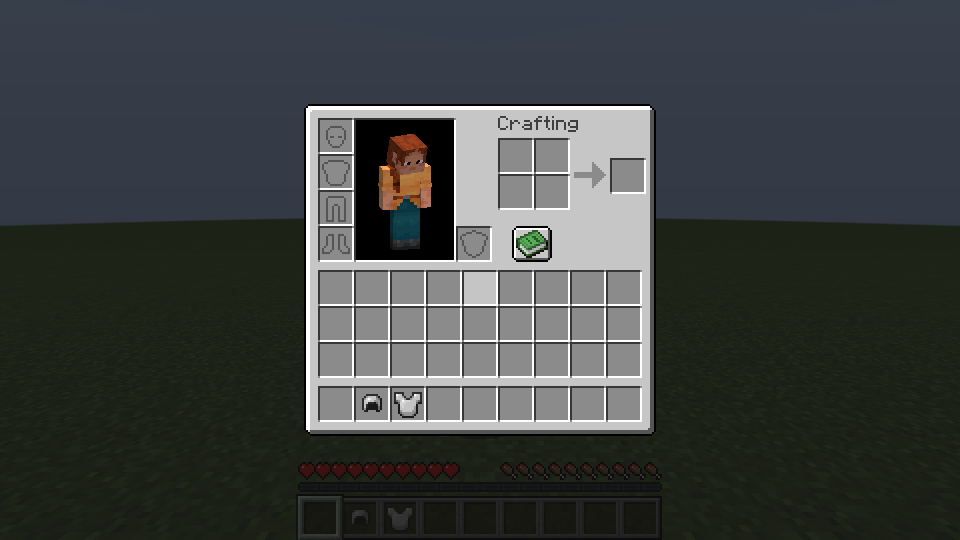
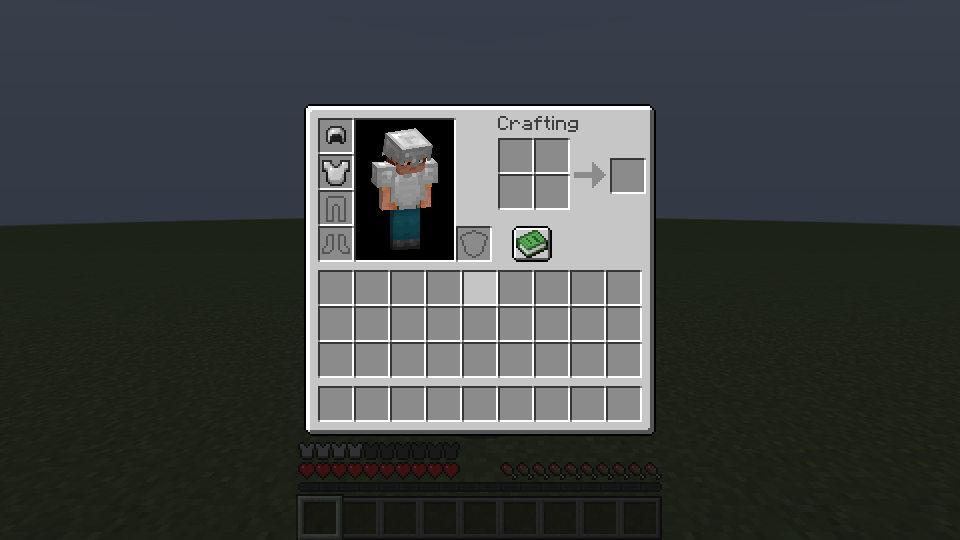
strumenti: la sequenza nel client controlla in che slot sono finiti i pezzi, il README del client dice i controlli di adesso e che cosa non si prova; scatto di riferimento dell'armatura ritrovata nei suoi slot
Claude-Session: https://claude.ai/code/session_018Fcbc2CFSwuiCoDaNxQwgt

diff --git a/tools/client/README.md b/tools/client/README.md
@@ -41,7 +41,7 @@ Nella cartella lascia:
 - `<nome>.png` per ogni passo `@scatto <nome>` (e `@tieni` con uno scatto);
 - `gradle-server.log`, `gradle-client.log`: uscita di Gradle e del gioco; `server.log`, `client.log`: i `latest.log`;
 - `rcon.log`: comandi e risposte; `xvfb.log`: uscita di Xvfb;
-- `log-check.txt`: avvisi ed errori del mod o dei mixin nei due log (righe WARN/ERROR che nominano il mod o i mixin, tracce che passano da `com.toxineren`, errori di applicazione dei mixin); vuoto se non ce ne sono. Non ferma lo script: lo segnala.
+- `log-check.txt`: avvisi ed errori del mod nei due log che non sono nell'elenco di quelli voluti, `tools/log_allowlist.txt` (righe WARN/ERROR che nominano il mod o la sua entità, anche quelle di vanilla come `UUID of added entity already exists: ExoframeEntity[...]`; tracce che passano da `com.toxineren`; errori di applicazione dei mixin), scritti da `tools/check_log.py`; vuoto se non ce ne sono. Se non è vuoto lo script, dopo aver salvato scatti e log, esce con 1.
 
 All'inizio lo script cancella dalla cartella solo questi file, per nome (compresi gli scatti dei passi); il resto della cartella non lo tocca. `server.log` e `client.log` li copia solo se in questa esecuzione server e client sono partiti.
 
@@ -69,7 +69,7 @@ Tutti i passi si controllano prima di avviare qualunque cosa: un passo sconosciu
 
 **`m3a_shots.sh`** fa l'insieme standard della parte 3a, una esecuzione e una sottocartella per scatto: `01-nudo`, `02-rottame-s0` … `05-rottame-s3`, `06-colori` (`3A6EA5` e `D9D9D9`), `07-mani` (piccone di ferro nella mano principale, scudo nell'altra), `08-sdraiato` (telaio nudo, posa strisciante forzata da un blocco di vetro sopra la testa; qui `front.png` non serve, perché la telecamera davanti finisce contro la testa: contano `back.png` e `quarter.png`). Negli scatti 01 e 02 c'è una colonna di tre blocchi di lana bianca a tre blocchi dal giocatore, verso ovest, come metro per l'altezza. Alla fine monta `stati-fronte.png` (le quattro viste frontali degli stati affiancate) e stampa un riepilogo. Una esecuzione per scatto invece di una lunga: ogni scatto parte dallo stesso stato e un errore resta nel suo scatto; costa un minuto in più a scatto.
 
-**`m3b_shots.sh`** fa la sequenza della parte 3b in una sola esecuzione, con clic e tasti veri: il giocatore in sopravvivenza, con elmo e corazza di ferro, piazza il telaio con l'oggetto (clic destro sull'erba), monta elmo, braccio destro (cliccando il lato destro del telaio) e cella carica con l'oggetto in mano, entra a mano vuota, esce tenendo `V`, rientra, si sposta nella tuta, muore (`kill`) e, rinato, rientra nel telaio lasciato dalla morte e ne riesce. Dopo ogni passo uno scatto (`01-piazzato` … `15-armatura-ritrovata`, elencati in testa allo script); fra i passi comandi `execute if`/`unless` controllano dove sta l'entità telaio e quante ce ne sono, i segnaposto negli slot armatura solo mentre il giocatore è dentro, l'armatura restituita, niente a terra dopo la morte; `data get entity` sul telaio scrive il suo stato in `rcon.log`. Un controllo che non torna ferma l'esecuzione con uscita 1. Alla fine i tre scatti di `client_shot.sh`, con il giocatore otto blocchi davanti al telaio.
+**`m3b_shots.sh`** fa la sequenza della parte 3b in una sola esecuzione, con clic e tasti veri: il giocatore in sopravvivenza, con elmo e corazza di ferro, piazza il telaio con l'oggetto (clic destro sull'erba), monta elmo, braccio destro (cliccando il lato destro del telaio) e cella carica con l'oggetto in mano, entra a mano vuota, esce tenendo `V`, rientra, si sposta nella tuta, muore (`kill`) e, rinato, rientra nel telaio lasciato dalla morte e ne riesce. Dopo ogni passo uno scatto (`01-piazzato` … `15-armatura-ritrovata`, elencati in testa allo script); fra i passi comandi `execute if`/`unless` controllano dove sta l'entità telaio e quante ce ne sono, i segnaposto negli slot armatura solo mentre il giocatore è dentro, i pezzi montati a ogni ingresso (nel riassunto visivo del segnaposto del torso: elmo e braccio destro sì, braccio sinistro no), l'armatura di ferro nei suoi slot a ogni uscita, il passo fuori dal telaio a ogni uscita (il giocatore un blocco davanti al centro del telaio), niente a terra dopo la morte, e al rientro nel telaio lasciato dalla morte l'armatura che resta nel telaio (non nell'inventario) e torna nei suoi slot all'uscita; `data get entity` sul telaio scrive il suo stato in `rcon.log`. Un controllo che non torna ferma l'esecuzione con uscita 1. Alla fine i tre scatti di `client_shot.sh`, con il giocatore otto blocchi davanti al telaio.
 
 Variabili d'ambiente:
 
@@ -85,7 +85,7 @@ Lo script lavora sul checkout in cui si trova (compila il codice com'è, anche l
 
 ## Errori
 
-Uscita 0: scatti salvati. Uscita 1: qualcosa si è fermato durante l'esecuzione, con una riga `ERRORE:` su stderr che dice cosa (build fallita, server o client che non partono, giocatore che non entra o viene espulso, comando rifiutato o senza risposta, passo del client non riuscito, scatto quasi tutto di un colore). Uscita 2: uso o ambiente sbagliati (variante sconosciuta, passo sconosciuto o scritto male, tasto sconosciuto, programmi mancanti, EULA non accettata, porta occupata, un'altra esecuzione sulla stessa variante, Xvfb che non parte, OpenGL core 3.2 assente); `m3a_shots.sh` allora non prova gli scatti successivi. Uscita 130: interrotto con Ctrl-C; 143: terminato con TERM. In ogni caso lo script rilascia per primo il tasto che un passo `@tieni` stava tenendo premuto (se l'errore o l'interruzione arriva durante la pressione), ferma il server con `stop`, manda TERM ai suoi due processi Gradle (che annullano la build nel demone, così un server o un client non ancora partiti non partono più) e alle JVM del gioco di quell'esecuzione, dopo 30 s le uccide, chiude Xvfb e copia i log. La chiusura dura al massimo circa 35 s, e un secondo Ctrl-C non la interrompe.
+Uscita 0: scatti salvati e `log-check.txt` vuoto. Uscita 1: qualcosa si è fermato durante l'esecuzione, con una riga `ERRORE:` su stderr che dice cosa (build fallita, server o client che non partono, giocatore che non entra o viene espulso, comando rifiutato o senza risposta, passo del client non riuscito, scatto quasi tutto di un colore), oppure alla fine `log-check.txt` non è vuoto (gli scatti ci sono, i log da guardare sono quelli). Uscita 2: uso o ambiente sbagliati (variante sconosciuta, passo sconosciuto o scritto male, tasto sconosciuto, programmi mancanti, EULA non accettata, porta occupata, un'altra esecuzione sulla stessa variante, Xvfb che non parte, OpenGL core 3.2 assente); `m3a_shots.sh` allora non prova gli scatti successivi. Uscita 130: interrotto con Ctrl-C; 143: terminato con TERM. In ogni caso lo script rilascia per primo il tasto che un passo `@tieni` stava tenendo premuto (se l'errore o l'interruzione arriva durante la pressione), ferma il server con `stop`, manda TERM ai suoi due processi Gradle (che annullano la build nel demone, così un server o un client non ancora partiti non partono più) e alle JVM del gioco di quell'esecuzione, dopo 30 s le uccide, chiude Xvfb e copia i log. La chiusura dura al massimo circa 35 s, e un secondo Ctrl-C non la interrompe.
 
 Uno scatto non si salva se il client non è più vivo o il giocatore ha lasciato il server: uno scatto del menu principale non passa mai per buono.
 
@@ -102,14 +102,15 @@ Misurato nella sessione cloud (4 processori, 15 GB), a cache calde: circa un min
 - **Audio** (non c'è un dispositivo audio), **fluidità** e animazioni nel tempo (si scattano fotogrammi fermi, a 30 fps in rendering software), **un secondo giocatore** che guarda il primo.
 - Il **jar di produzione**: qui gira l'ambiente di sviluppo di Loom. Che i mixin si applichino nel jar finale lo prova solo la checklist sul PC.
 - Pose da comandi e tasti diversi da quelli usati qui (accovacciarsi, correre, nuotare): vedi la checklist.
+- **Cliccare con un tasto premuto**: i passi si eseguono uno dopo l'altro, quindi non si può cliccare tenendo premuto Shift. Smontare un pezzo, togliere la cella e raccogliere il telaio come oggetto (clic da accovacciati) non hanno un'esecuzione nel client vero: li provano i test in gioco e la checklist.
 - **Trascinare oggetti nelle schermate**: i passi cliccano dove punta il mirino e non spostano il puntatore, quindi non si può prendere un oggetto da uno slot dell'inventario e lasciarlo fuori (per esempio lanciare un segnaposto). Lo prova la checklist.
 
 ## Messaggi innocui nei log
 
 - `UnknownHostException` o errori di connessione verso `sessionserver.mojang.com` e `api.minecraftservices.com`, `Failed to request yggdrasil public key`, `Couldn't look up profile properties`, `Ignoring chat session ... missing Services public key`: account offline di sviluppo.
 - `Error starting SoundSystem. Turning off sounds & music`, `Failed to open OpenAL device`, `Missing sound for event`: niente audio.
-- `Reference map 'geckolib.refmap.json' for geckolib.mixins.json could not be read. If this is a development environment you can ignore this message`: GeckoLib in sviluppo; `log-check.txt` la esclude.
-- Su NeoForge: `Attempted to select a dependency jar for JarJar which was passed in as source: library:mixinextras.neoforge`: ambiente di sviluppo; `log-check.txt` la esclude.
+- `Reference map 'geckolib.refmap.json' for geckolib.mixins.json could not be read. If this is a development environment you can ignore this message`: GeckoLib in sviluppo; non nomina il mod, quindi `log-check.txt` non la prende.
+- Su NeoForge: `Attempted to select a dependency jar for JarJar which was passed in as source: library:mixinextras.neoforge`: ambiente di sviluppo; non nomina il mod.
 - `Shader rendertype_entity_translucent_emissive could not find sampler named Sampler2`: avviso del gioco base su 1.21.1.
-- Sulle due varianti Fabric, in client e server: `[ERROR] (Minecraft) No data fixer registered for exoframe`, il tipo dell'entità telaio senza correttore di dati (vedi `docs/compat.md`, `CompatEntity`); non nomina il mod per intero, quindi `log-check.txt` non la prende.
+- Sulle due varianti Fabric, in client e server: `[ERROR] (Minecraft) No data fixer registered for exoframe`, il tipo dell'entità telaio senza correttore di dati (vedi `docs/compat.md`, `CompatEntity`); è nell'elenco degli avvisi voluti, una volta per log.
 - Sul server: `No key layers in MapLike[{}]` (impostazioni del mondo piatto lasciate vuote) e gli avvisi `SERVER IS RUNNING IN OFFLINE/INSECURE MODE`.
